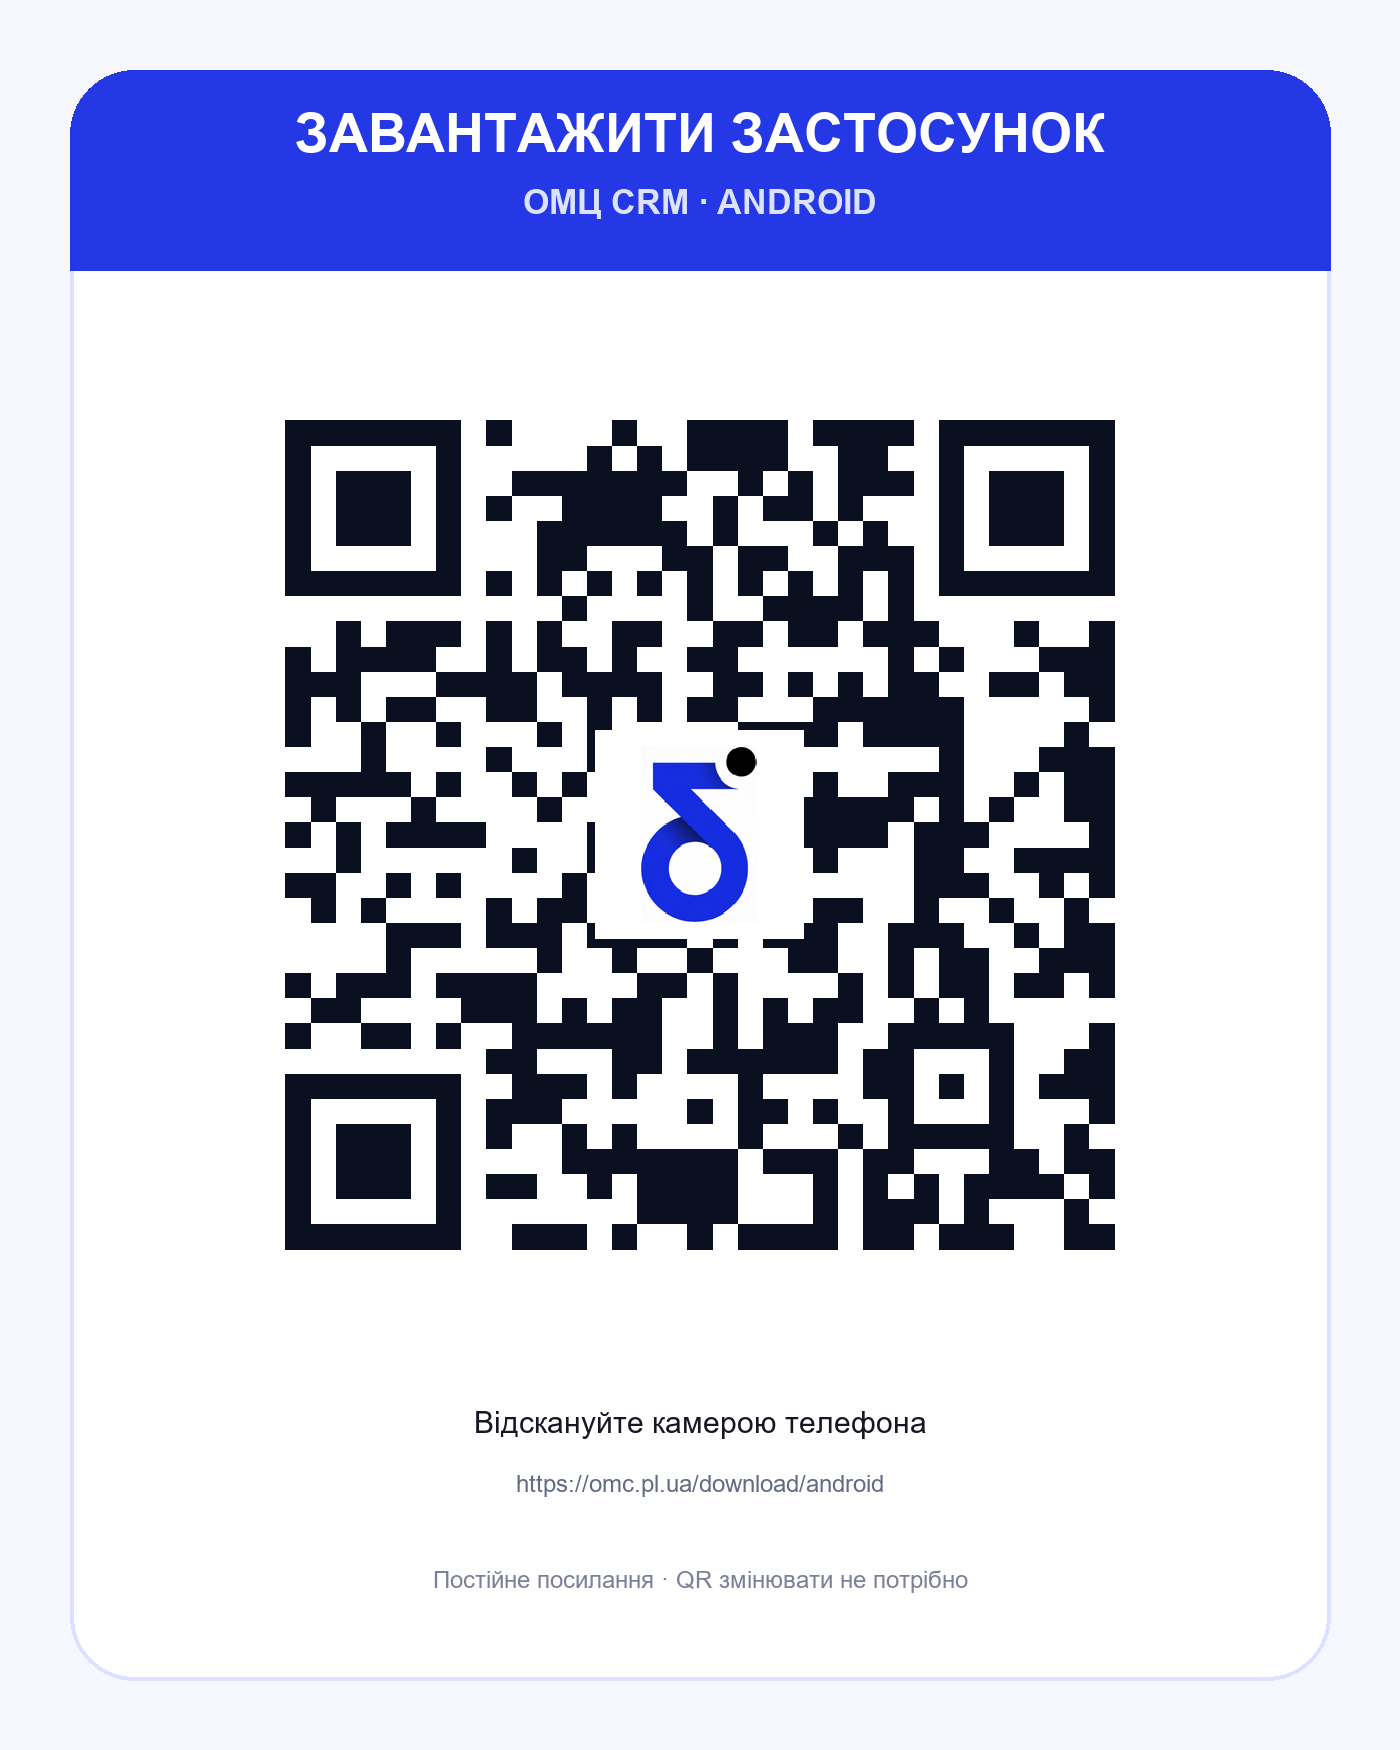
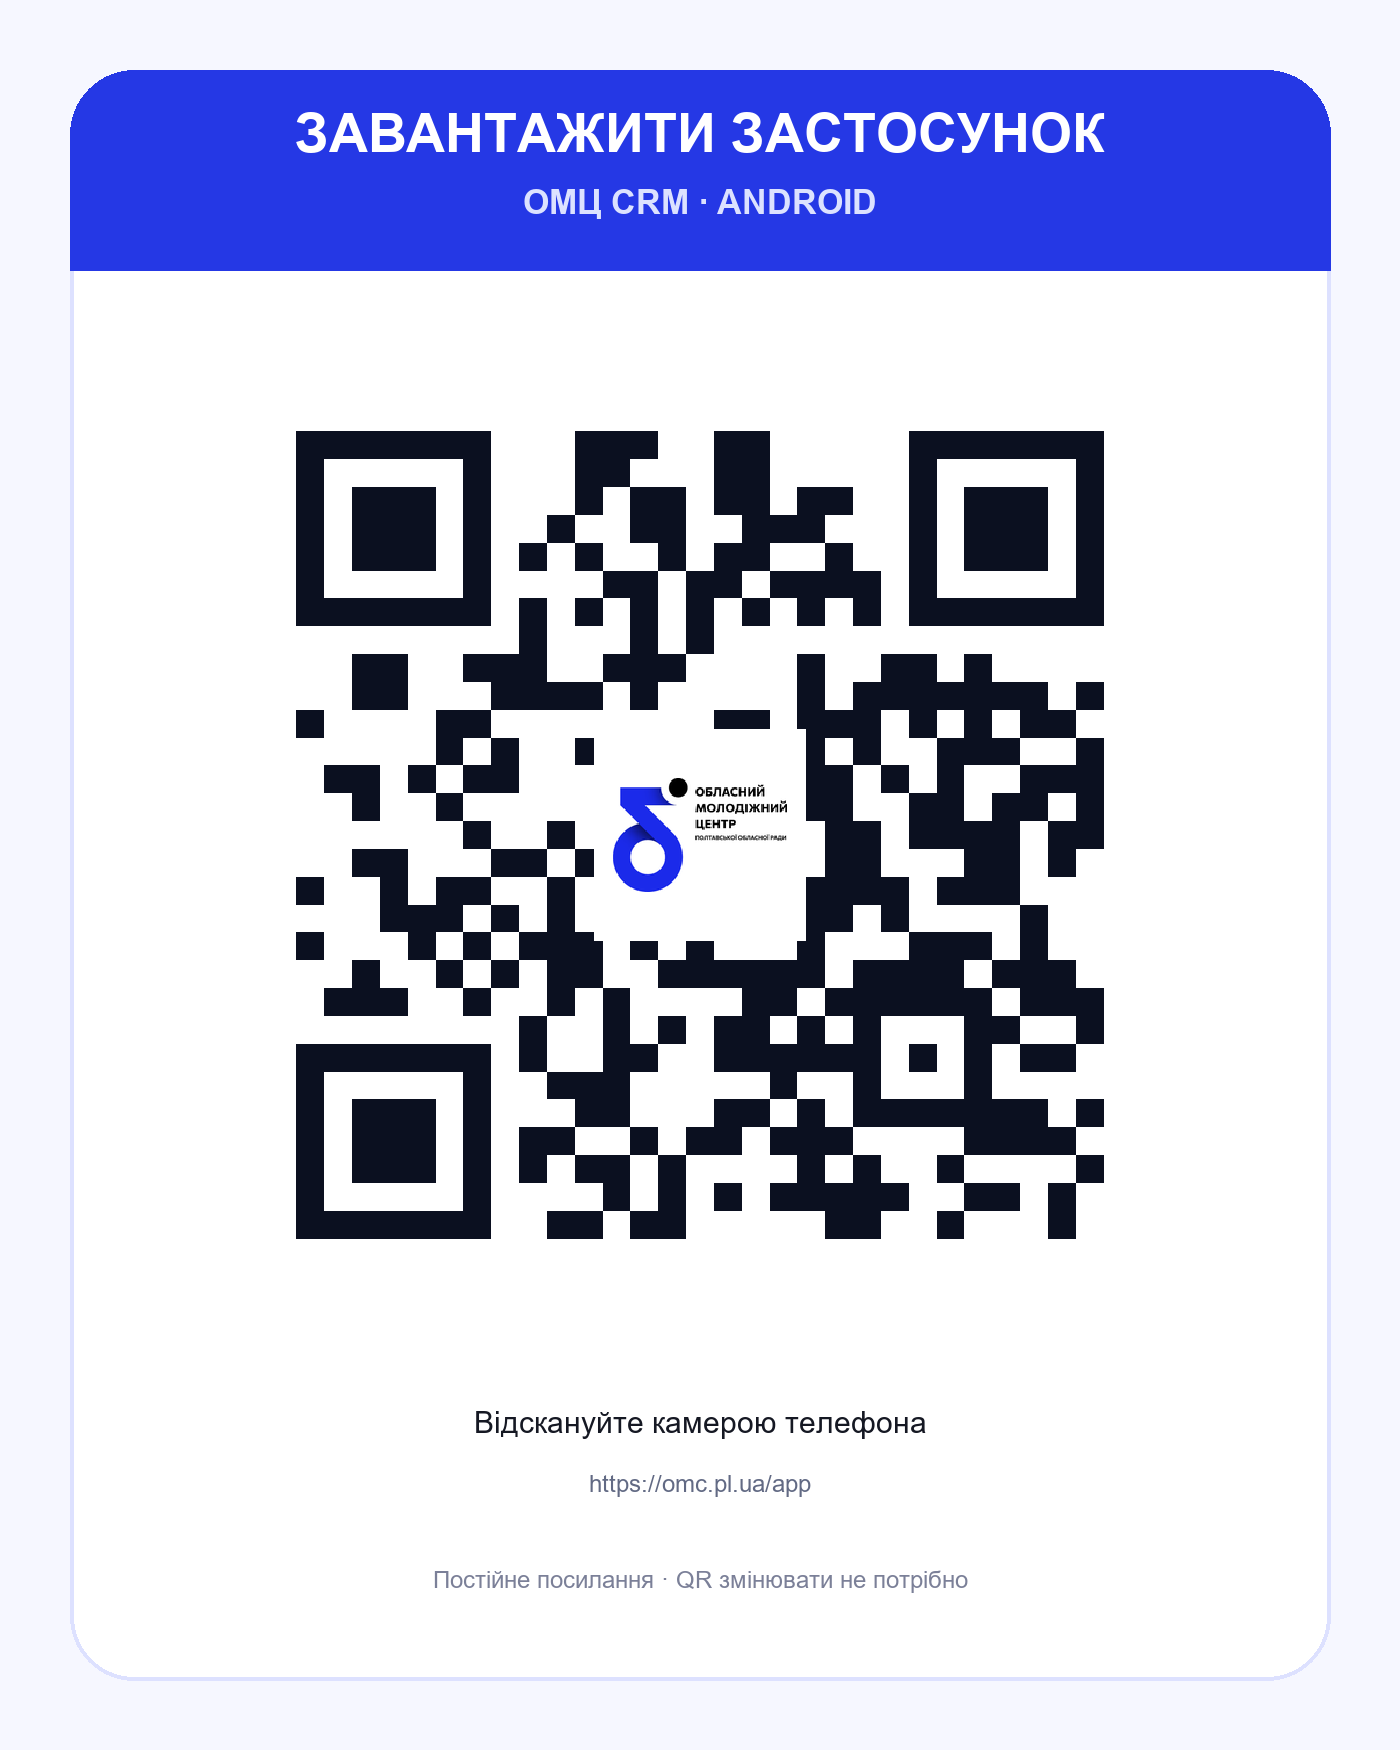
Add mobile app download landing page

Changed region(s): [[0.1843, 0.216, 0.7986, 0.7406], [0.3686, 0.8331, 0.6143, 0.864]]

diff --git a/resources/views/app-download.blade.php b/resources/views/app-download.blade.php
@@ -1,0 +1,324 @@
+<!DOCTYPE html>
+<html lang="uk">
+<head>
+    <meta charset="UTF-8">
+    <meta name="viewport" content="width=device-width, initial-scale=1.0">
+    <meta name="theme-color" content="#2538e5">
+    <meta name="robots" content="index,follow">
+    <title>Завантажити ОМЦ CRM для Android</title>
+    <meta name="description" content="Офіційна сторінка завантаження мобільного застосунку ОМЦ CRM для Android.">
+    <style>
+        :root {
+            color-scheme: light;
+            --primary: #2538e5;
+            --primary-dark: #1826b8;
+            --ink: #141624;
+            --muted: #626a84;
+            --surface: #ffffff;
+            --page: #f4f6ff;
+            --line: #dfe3ff;
+            --success: #087c6d;
+        }
+
+        * { box-sizing: border-box; }
+
+        body {
+            margin: 0;
+            min-height: 100vh;
+            background:
+                radial-gradient(circle at 12% 12%, rgba(86, 104, 255, .18), transparent 32rem),
+                radial-gradient(circle at 90% 88%, rgba(90, 212, 194, .16), transparent 30rem),
+                var(--page);
+            color: var(--ink);
+            font-family: Inter, -apple-system, BlinkMacSystemFont, "Segoe UI", sans-serif;
+        }
+
+        a { color: inherit; }
+
+        .download-page {
+            width: min(1160px, calc(100% - 32px));
+            margin: 0 auto;
+            padding: 48px 0 32px;
+        }
+
+        .brand {
+            display: flex;
+            align-items: center;
+            justify-content: space-between;
+            gap: 24px;
+            margin-bottom: 34px;
+        }
+
+        .brand img {
+            width: min(330px, 72vw);
+            max-height: 108px;
+            object-fit: contain;
+            object-position: left center;
+        }
+
+        .brand-badge {
+            flex: 0 0 auto;
+            padding: 10px 16px;
+            border: 1px solid var(--line);
+            border-radius: 999px;
+            background: rgba(255, 255, 255, .76);
+            color: var(--primary-dark);
+            font-size: 14px;
+            font-weight: 800;
+            letter-spacing: .04em;
+            text-transform: uppercase;
+        }
+
+        .download-card {
+            display: grid;
+            grid-template-columns: minmax(0, 1.15fr) minmax(300px, .85fr);
+            gap: 48px;
+            align-items: center;
+            padding: clamp(28px, 5vw, 64px);
+            border: 1px solid rgba(212, 218, 255, .9);
+            border-radius: 40px;
+            background: rgba(255, 255, 255, .92);
+            box-shadow: 0 30px 80px rgba(34, 47, 145, .13);
+            backdrop-filter: blur(18px);
+        }
+
+        .eyebrow {
+            display: inline-flex;
+            align-items: center;
+            gap: 9px;
+            margin: 0 0 18px;
+            color: var(--success);
+            font-size: 15px;
+            font-weight: 800;
+        }
+
+        .eyebrow::before {
+            width: 10px;
+            height: 10px;
+            border-radius: 50%;
+            background: #20b69f;
+            box-shadow: 0 0 0 6px rgba(32, 182, 159, .13);
+            content: "";
+        }
+
+        h1 {
+            max-width: 720px;
+            margin: 0;
+            font-size: clamp(38px, 6vw, 70px);
+            line-height: 1.02;
+            letter-spacing: -.045em;
+        }
+
+        .lead {
+            max-width: 640px;
+            margin: 24px 0 0;
+            color: var(--muted);
+            font-size: clamp(18px, 2.2vw, 22px);
+            line-height: 1.55;
+        }
+
+        .download-actions {
+            display: flex;
+            flex-wrap: wrap;
+            gap: 14px;
+            margin-top: 34px;
+        }
+
+        .download-button,
+        .site-button {
+            display: inline-flex;
+            min-height: 58px;
+            align-items: center;
+            justify-content: center;
+            gap: 11px;
+            padding: 15px 24px;
+            border-radius: 18px;
+            font-size: 17px;
+            font-weight: 800;
+            text-decoration: none;
+            transition: transform .2s ease, box-shadow .2s ease, background .2s ease;
+        }
+
+        .download-button {
+            background: var(--primary);
+            color: #fff;
+            box-shadow: 0 16px 30px rgba(37, 56, 229, .24);
+        }
+
+        .site-button {
+            border: 1px solid var(--line);
+            background: #fff;
+            color: var(--ink);
+        }
+
+        .download-button:hover,
+        .site-button:hover {
+            transform: translateY(-2px);
+        }
+
+        .download-button:hover { background: var(--primary-dark); }
+
+        .direct-link {
+            margin: 26px 0 0;
+            color: var(--muted);
+            font-size: 14px;
+            line-height: 1.55;
+        }
+
+        .direct-link a {
+            display: inline-block;
+            margin-top: 5px;
+            color: var(--primary-dark);
+            font-weight: 700;
+            overflow-wrap: anywhere;
+        }
+
+        .qr-panel {
+            display: flex;
+            flex-direction: column;
+            align-items: center;
+            padding: 24px;
+            border: 1px solid var(--line);
+            border-radius: 30px;
+            background: linear-gradient(155deg, #fff, #f3f5ff);
+            text-align: center;
+        }
+
+        .qr-panel img {
+            display: block;
+            width: min(100%, 360px);
+            height: auto;
+            border-radius: 22px;
+        }
+
+        .qr-panel strong {
+            margin-top: 18px;
+            font-size: 19px;
+        }
+
+        .qr-panel span {
+            margin-top: 7px;
+            color: var(--muted);
+            line-height: 1.45;
+        }
+
+        .steps {
+            display: grid;
+            grid-template-columns: repeat(3, 1fr);
+            gap: 16px;
+            margin-top: 24px;
+        }
+
+        .step {
+            padding: 22px;
+            border: 1px solid rgba(212, 218, 255, .85);
+            border-radius: 24px;
+            background: rgba(255, 255, 255, .76);
+        }
+
+        .step-number {
+            display: grid;
+            width: 36px;
+            height: 36px;
+            place-items: center;
+            margin-bottom: 14px;
+            border-radius: 12px;
+            background: #e8ebff;
+            color: var(--primary-dark);
+            font-weight: 900;
+        }
+
+        .step strong { display: block; margin-bottom: 6px; }
+        .step p { margin: 0; color: var(--muted); line-height: 1.5; }
+
+        footer {
+            display: flex;
+            justify-content: space-between;
+            gap: 20px;
+            padding: 28px 4px 0;
+            color: #777e99;
+            font-size: 13px;
+        }
+
+        @media (max-width: 820px) {
+            .download-page { padding-top: 24px; }
+            .brand { align-items: flex-start; flex-direction: column; margin-bottom: 24px; }
+            .download-card { grid-template-columns: 1fr; gap: 34px; border-radius: 30px; }
+            .steps { grid-template-columns: 1fr; }
+            .download-actions { flex-direction: column; }
+            .download-button, .site-button { width: 100%; }
+            footer { align-items: center; flex-direction: column; text-align: center; }
+        }
+
+        @media (prefers-reduced-motion: reduce) {
+            *, *::before, *::after { scroll-behavior: auto !important; transition: none !important; }
+        }
+    </style>
+</head>
+<body>
+<x-preloader />
+
+<main class="download-page">
+    <header class="brand">
+        <a href="{{ url('/') }}" aria-label="Перейти на головну сторінку ОМЦ">
+            <img src="{{ asset('storage/homepage/Лого ПОМЦ.png') }}" alt="Обласний молодіжний центр">
+        </a>
+        <span class="brand-badge">Офіційний застосунок</span>
+    </header>
+
+    <section class="download-card" aria-labelledby="download-title">
+        <div>
+            <p class="eyebrow">Android · версія {{ $androidVersion }}</p>
+            <h1 id="download-title">ОМЦ CRM завжди поруч</h1>
+            <p class="lead">
+                Мобільне адміністрування подій, реєстрацій, контенту та команди Обласного молодіжного центру.
+            </p>
+
+            <div class="download-actions">
+                <a class="download-button" href="{{ $androidDownloadUrl }}" download>
+                    <span aria-hidden="true">↓</span>
+                    Завантажити для Android
+                </a>
+                <a class="site-button" href="{{ url('/') }}">Перейти на сайт</a>
+            </div>
+
+            <p class="direct-link">
+                Пряме посилання на APK:<br>
+                <a href="{{ $androidDownloadUrl }}">{{ $androidDownloadUrl }}</a>
+            </p>
+        </div>
+
+        <div class="qr-panel">
+            <a href="{{ $androidDownloadUrl }}" aria-label="Завантажити застосунок для Android">
+                <img src="{{ asset('images/qr/omc-android-download-qr-square.png') }}" alt="QR-код для завантаження ОМЦ CRM">
+            </a>
+            <strong>Відскануйте QR-код</strong>
+            <span>Наведіть камеру телефона або натисніть на код.</span>
+        </div>
+    </section>
+
+    <section class="steps" aria-label="Інструкція зі встановлення">
+        <article class="step">
+            <span class="step-number">1</span>
+            <strong>Завантажте APK</strong>
+            <p>Натисніть кнопку або відскануйте QR-код.</p>
+        </article>
+        <article class="step">
+            <span class="step-number">2</span>
+            <strong>Підтвердьте встановлення</strong>
+            <p>Android може попросити дозвіл для встановлення з браузера.</p>
+        </article>
+        <article class="step">
+            <span class="step-number">3</span>
+            <strong>Увійдіть у CRM</strong>
+            <p>Використайте свій чинний логін і пароль адміністратора.</p>
+        </article>
+    </section>
+
+    <footer>
+        <span>developed by Roman Koshovyi</span>
+        <span>© {{ now()->year }} Обласний молодіжний центр</span>
+    </footer>
+</main>
+</body>
+</html>

diff --git a/routes/web.php b/routes/web.php
@@ -1,6 +1,7 @@
 <?php
 
 use App\Http\Controllers\AndroidAppDownloadController;
+use App\Http\Controllers\AppDownloadController;
 use App\Http\Controllers\EmployeePhotoController;
 use App\Http\Controllers\EventController;
 use App\Http\Controllers\EventImageController;
@@ -16,6 +17,9 @@ use Illuminate\Support\Facades\Route;
 
 Route::get('/download/android', AndroidAppDownloadController::class)
     ->name('app.download.android');
+
+Route::get('/app', AppDownloadController::class)
+    ->name('app.download');
 
 Route::middleware([EnsureFrontendIsAvailable::class, TrackSiteVisit::class])->group(function () {
     Route::get('/', [HomeController::class, 'index']);

diff --git a/tests/Feature/AppDownloadPageTest.php b/tests/Feature/AppDownloadPageTest.php
@@ -1,0 +1,21 @@
+<?php
+
+namespace Tests\Feature;
+
+use Illuminate\Foundation\Testing\RefreshDatabase;
+use Tests\TestCase;
+
+class AppDownloadPageTest extends TestCase
+{
+    use RefreshDatabase;
+
+    public function test_app_download_page_contains_qr_and_direct_android_link(): void
+    {
+        $response = $this->get('/app');
+
+        $response->assertOk()
+            ->assertSeeText('Завантажити для Android')
+            ->assertSee(route('app.download.android'))
+            ->assertSee(asset('images/qr/omc-android-download-qr-square.png'));
+    }
+}

diff --git a/app/Http/Controllers/AppDownloadController.php b/app/Http/Controllers/AppDownloadController.php
@@ -1,0 +1,16 @@
+<?php
+
+namespace App\Http\Controllers;
+
+use Illuminate\Contracts\View\View;
+
+class AppDownloadController extends Controller
+{
+    public function __invoke(): View
+    {
+        return view('app-download', [
+            'androidDownloadUrl' => route('app.download.android'),
+            'androidVersion' => config('mobile.updates.android.latest_version'),
+        ]);
+    }
+}

diff --git a/tools/generate_android_qr.py b/tools/generate_android_qr.py
@@ -8,7 +8,7 @@ import qrcode.image.svg
 from PIL import Image, ImageChops, ImageDraw, ImageFont
 
 
-DEFAULT_URL = "https://omc.pl.ua/download/android"
+DEFAULT_URL = "https://omc.pl.ua/app"
 
 
 def _font(size: int, *, bold: bool = False) -> ImageFont.FreeTypeFont:
